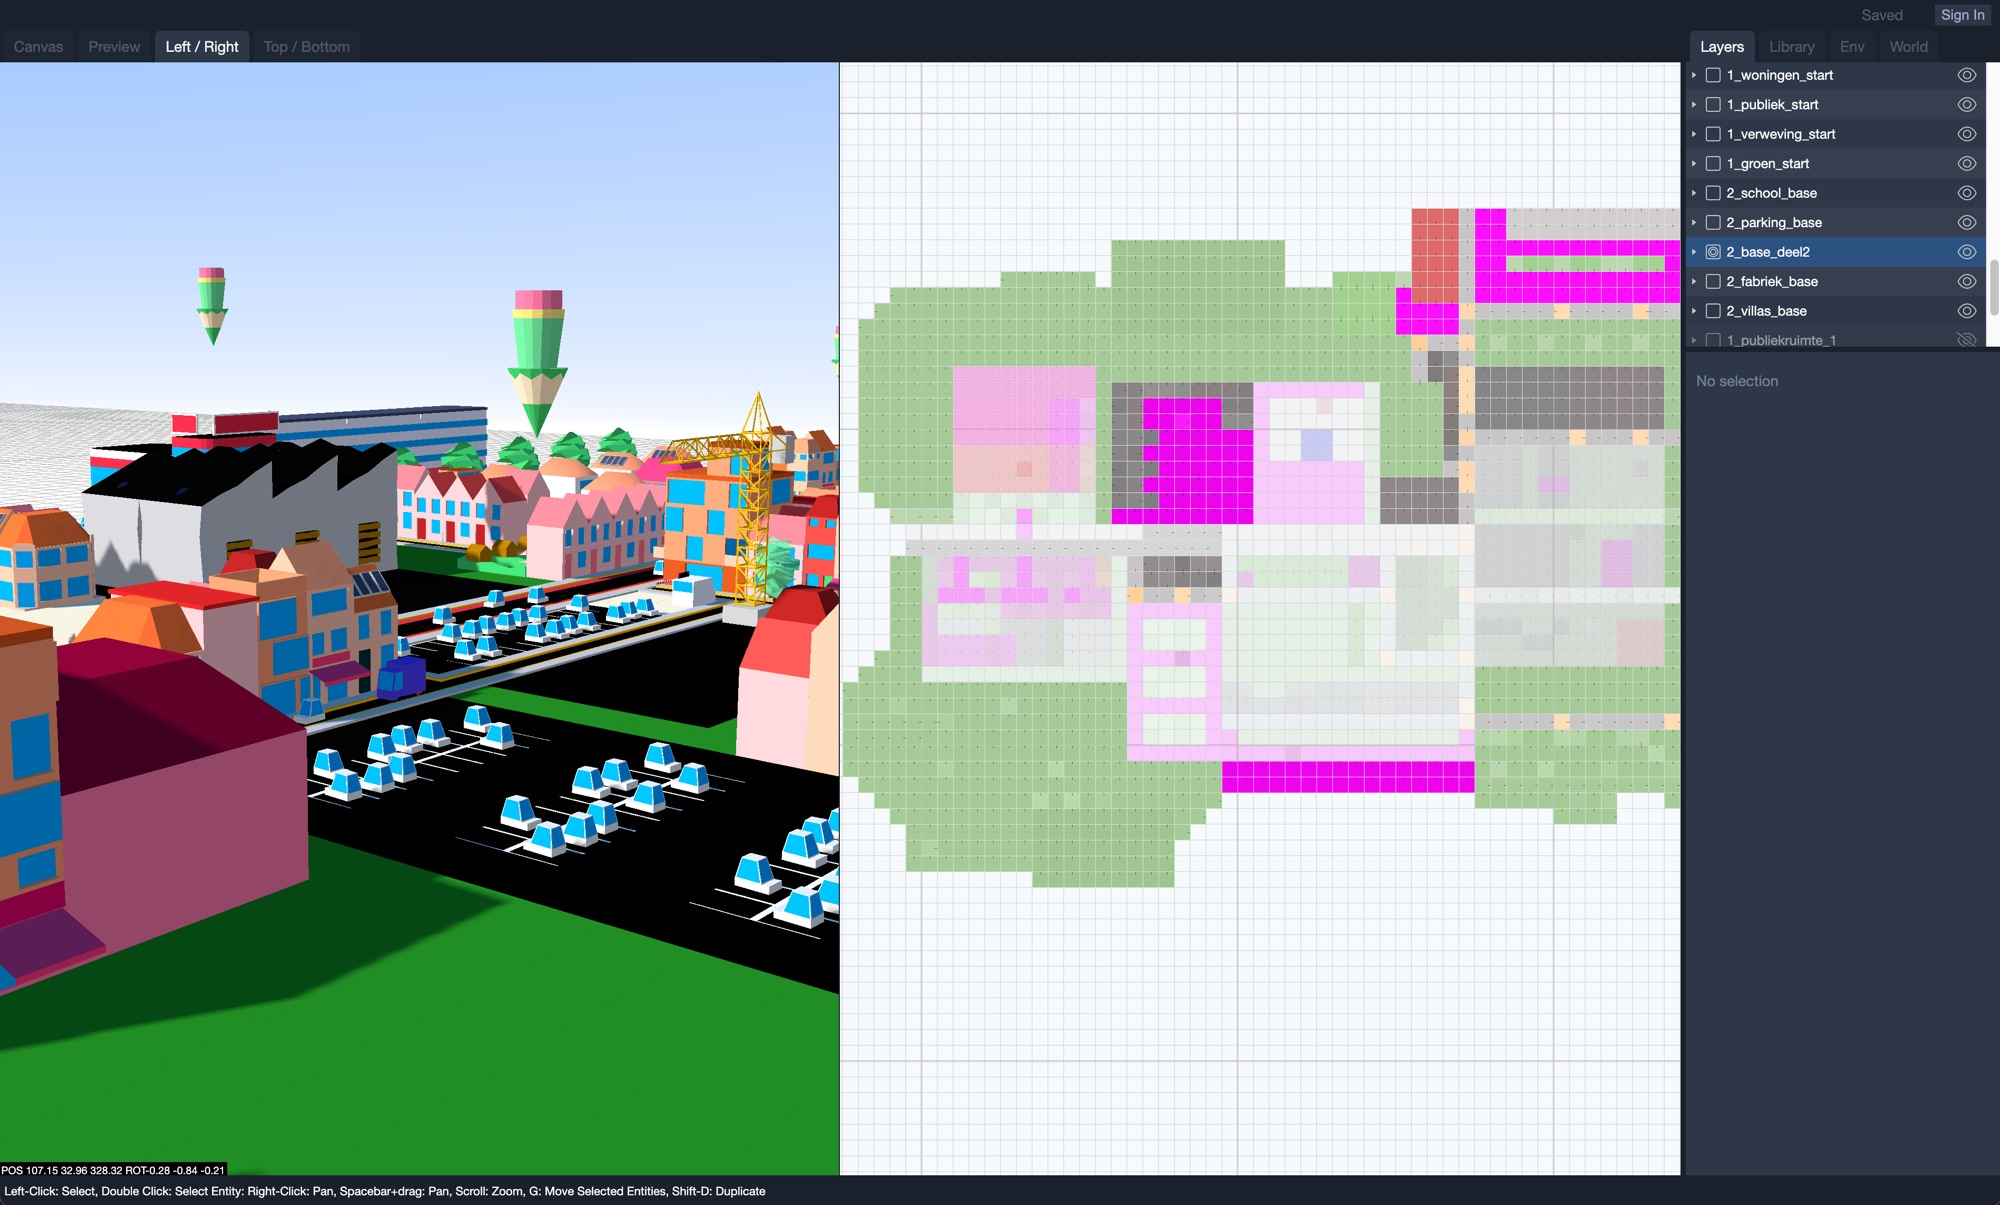
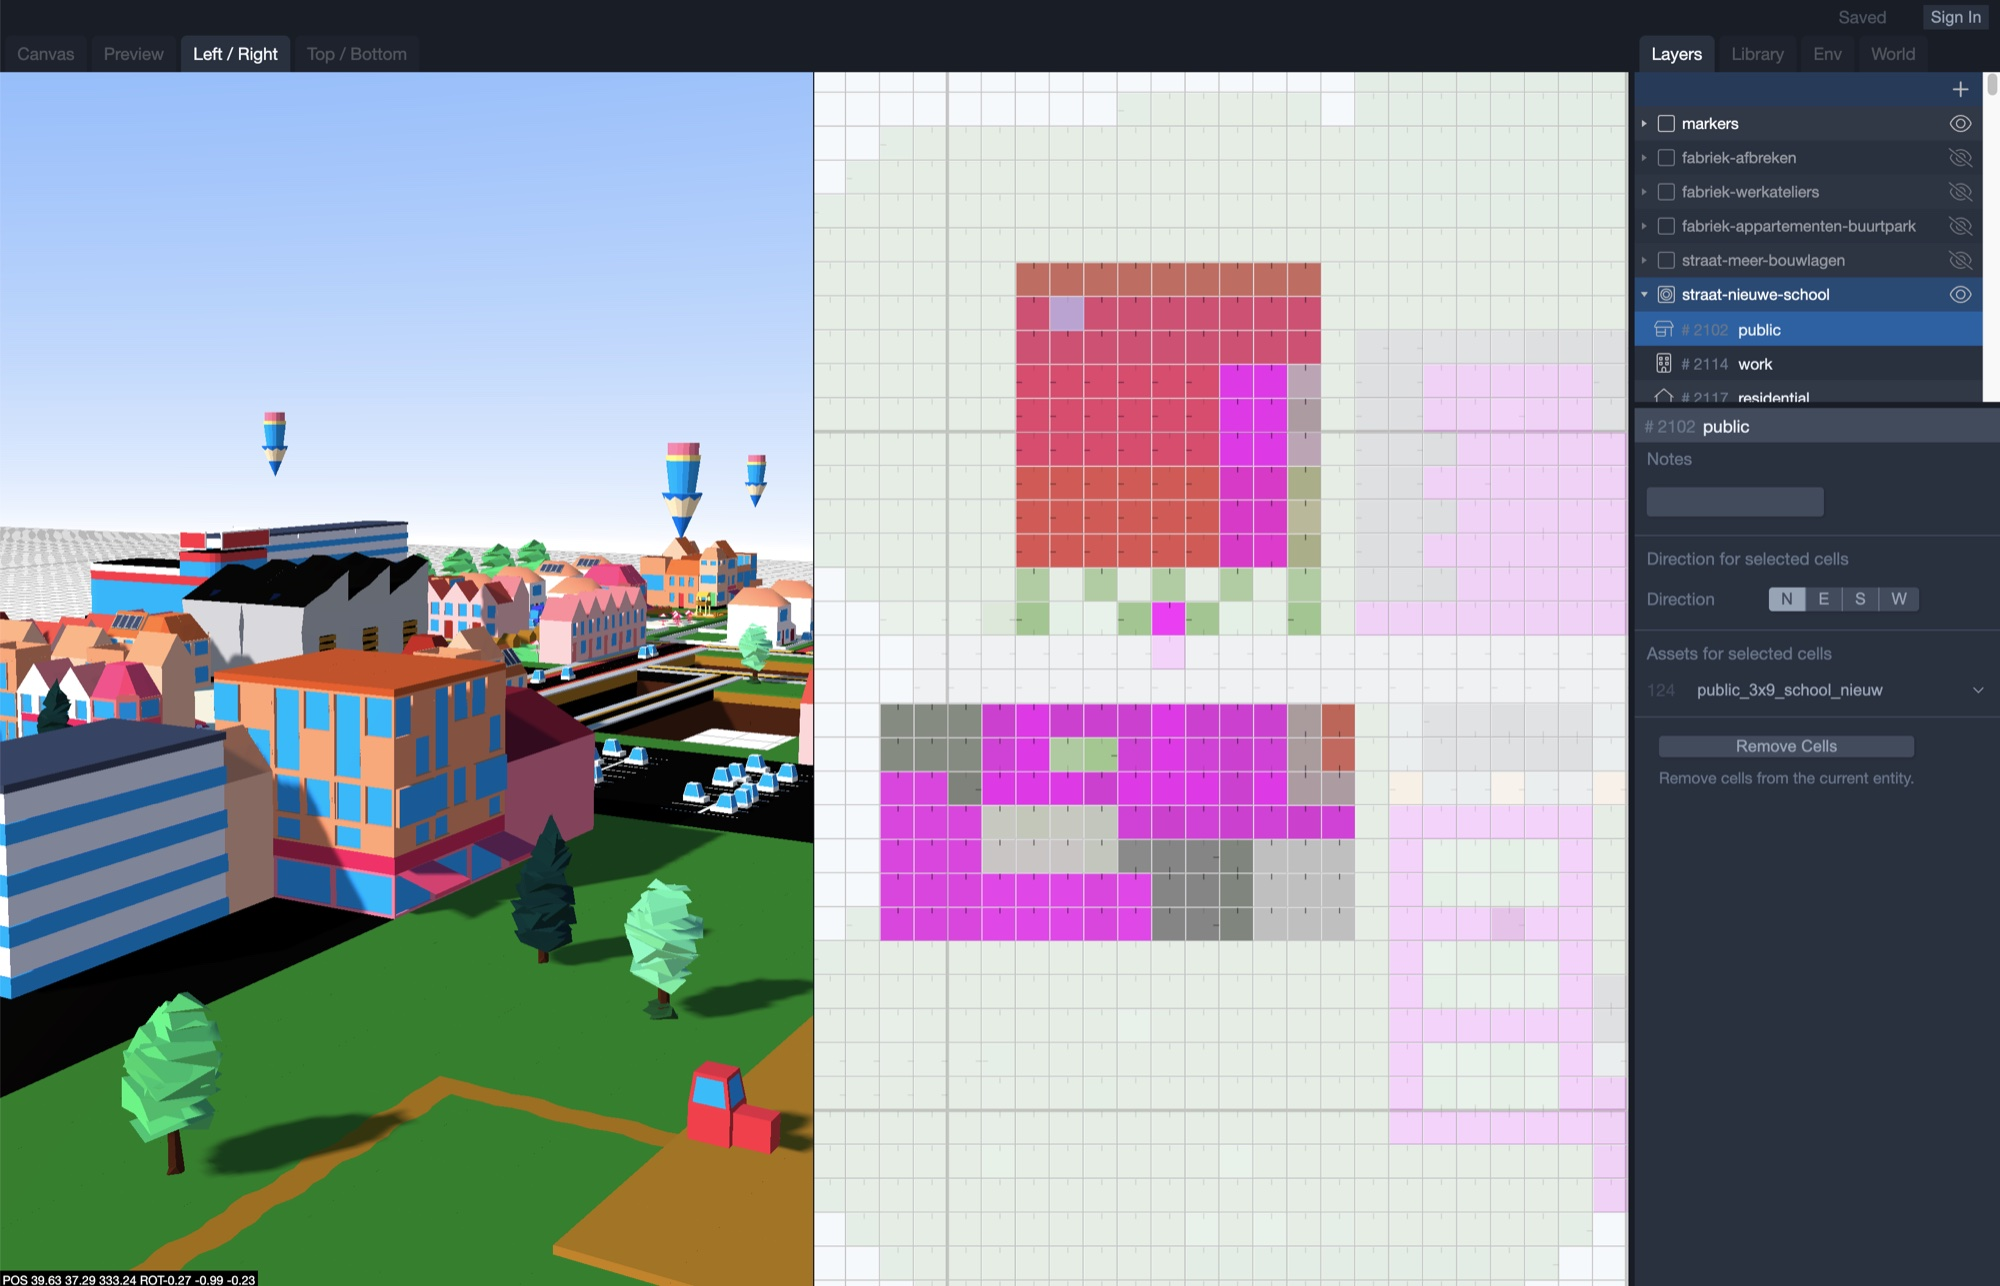
Add Build It editor screenshot to EDUbox project

diff --git a/projects/2023-edubox-ruimtelijk-bewustzijn.md b/projects/2023-edubox-ruimtelijk-bewustzijn.md
@@ -18,6 +18,10 @@ This EDUbox uses [Build It](https://treecompany.be/build-it-interactieve-simulat
 
 ![Results Page](/media/projects/edubox-ruimtelijk-bewustzijn/results-page.jpg)
 
+In the Build It editor, artists can work with layers and objects.
+
+![The Build It editor, with the 3D city on the left and the grid of the selected layer on the right](/media/projects/edubox-ruimtelijk-bewustzijn/build-it-editor.jpg)
+
 New in this EDUbox is that we added the option to change the camera, allowing the children to explore the city from different perspectives. This is a feature that we will be adding to the full version of Build It as well.
 
 <video src="https://debleser.s3.eu-central-1.amazonaws.com/enigmeta/projects/edubox-ruimtelijk-bewustzijn/camera-controls.mp4" autoplay loop muted playsinline></video>
